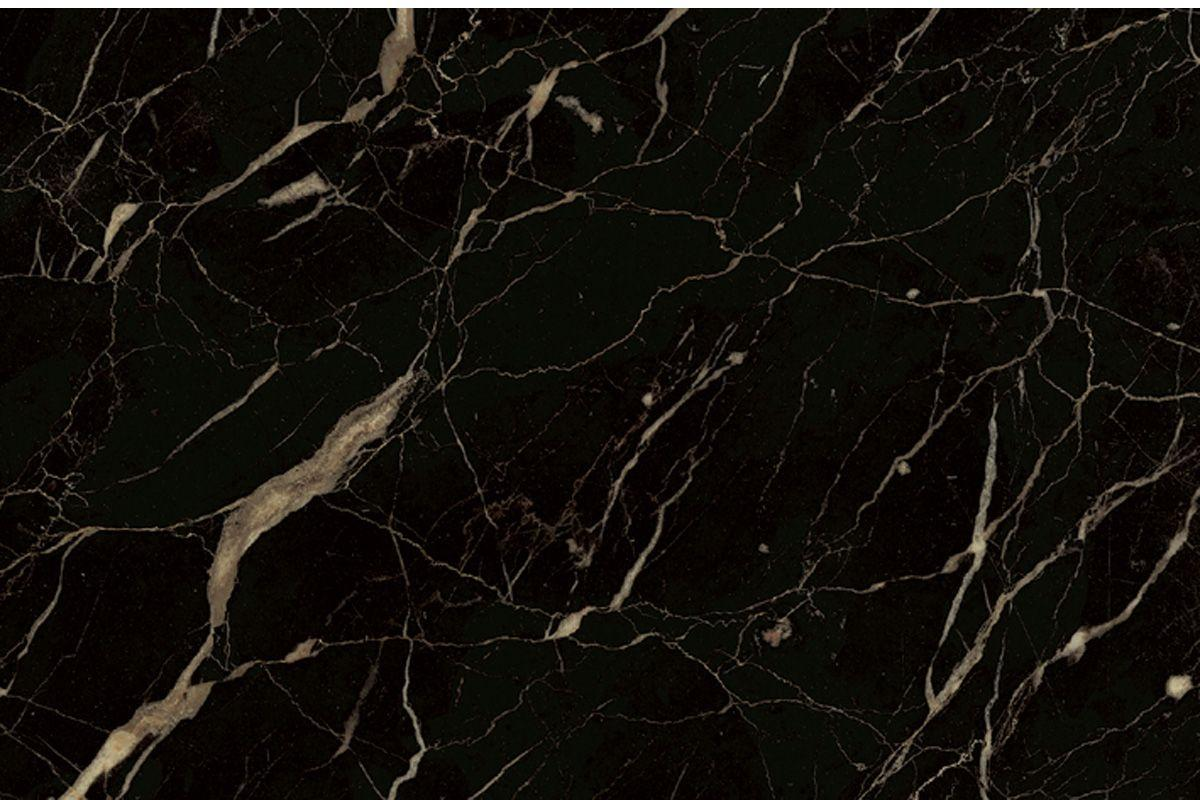
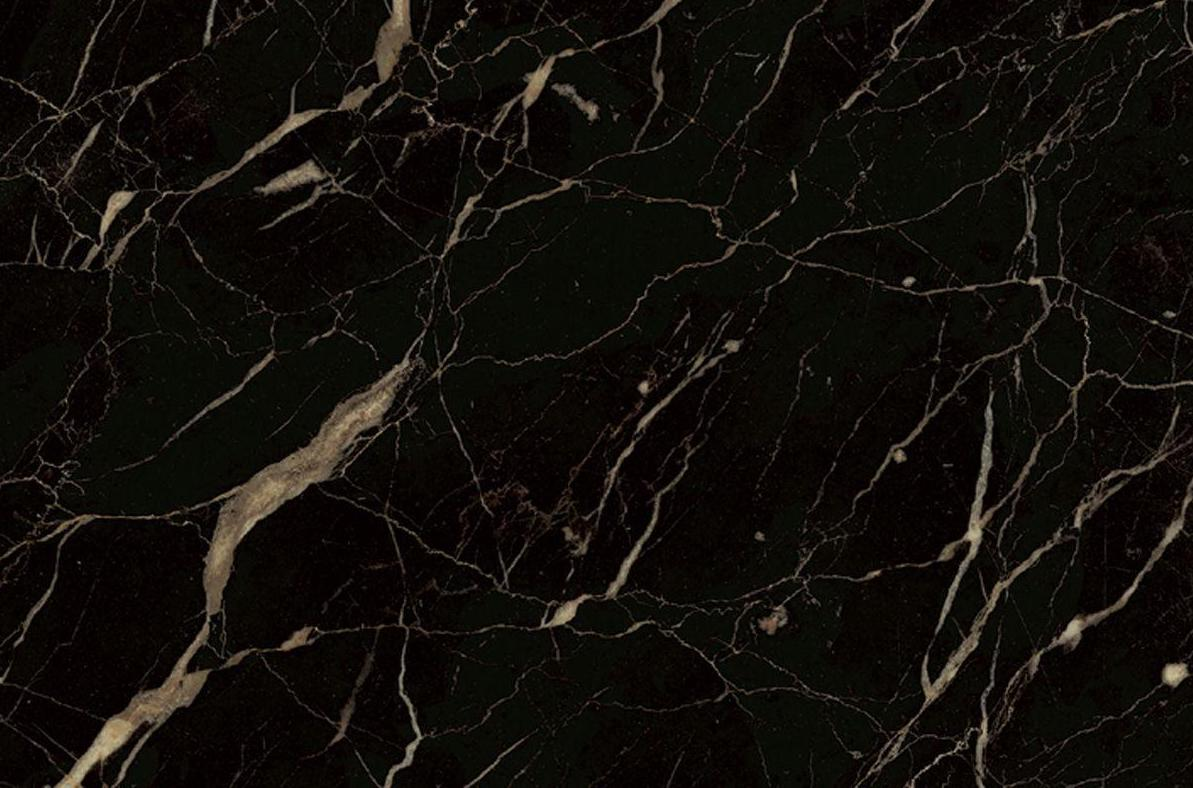
fixed issue with white line on bg image

diff --git a/src/index.css b/src/index.css
@@ -1,19 +1,19 @@
-/* body {
+body {
   margin: 0;
-  font-family: -apple-system, BlinkMacSystemFont, "Segoe UI", "Roboto", "Oxygen",
-    "Ubuntu", "Cantarell", "Fira Sans", "Droid Sans", "Helvetica Neue",
-    sans-serif;
-  -webkit-font-smoothing: antialiased;
-  -moz-osx-font-smoothing: grayscale;
+  background-color: #282c34;
 }
 
 code {
   font-family: source-code-pro, Menlo, Monaco, Consolas, "Courier New",
     monospace;
-} */
+}
 
 #aboutContainer {
-  margin: 10%;
+  align-items: center;
+  justify-content: space-around;
+  display: auto-flex;
+  padding: 10%;
+  margin-top: 0%;
 }
 
 #contactContainer {
@@ -24,6 +24,5 @@ code {
   padding-top: 5%;
 }
 #contactHeader {
-  margin: 10%;
   color: white;
 }

diff --git a/src/App.js b/src/App.js
@@ -11,12 +11,14 @@ function App() {
   return (
     <Router>
       <Navbar />
-      <>
-        <Route exact path="/" component={About} />
-        <Route exact path="/About" component={About} />
-        <Route exact path="/Contact" component={Contact} />
-        <Route exact path="/Portfolio" component={Portfolio} />
-      </>
+      <Wrapper>
+        <>
+          <Route exact path="/" component={About} />
+          <Route exact path="/About" component={About} />
+          <Route exact path="/Contact" component={Contact} />
+          <Route exact path="/Portfolio" component={Portfolio} />
+        </>
+      </Wrapper>
       <Footer />
     </Router>
   );

diff --git a/src/App.css b/src/App.css
@@ -1,5 +1,12 @@
-/* .App {
+.App {
   text-align: center;
+  background-image: url("../../imgs/bgalt2.jpg");
+  position: fixed;
+  min-width: 100%;
+  min-height: 100%;
+  background-size: cover;
+
+  background-repeat: repeat-y;
 }
 
 .App-logo {
@@ -11,10 +18,9 @@
   .App-logo {
     animation: App-logo-spin infinite 20s linear;
   }
-} */
+}
 
 .App-header {
-  background-color: #282c34;
   min-height: 100vh;
   display: flex;
   flex-direction: column;

diff --git a/src/components/Wrapper/index.js b/src/components/Wrapper/index.js
@@ -1,7 +1,10 @@
 import React from "react";
+//import { propTypes } from "react-bootstrap/esm/Image";
+import "./style.css";
+// import Hero from "../Hero";
 
-function Wrapper() {
-  return <main className="Wrapper"></main>;
+function Wrapper(props) {
+  return <div className="Wrapper">{props.children}</div>;
 }
 
 export default Wrapper;

diff --git a/src/pages/about.js b/src/pages/about.js
@@ -5,7 +5,7 @@ function About() {
   return (
     <Hero>
       <div>
-        <div class="container-m md-auto content" id="aboutContainer">
+        <div class="container-m  content" id="aboutContainer">
           <div class="row">
             <div class="col-md-8 cards card text-white bg-dark mb-3">
               <h1>About Me</h1>

diff --git a/src/components/Hero/style.css b/src/components/Hero/style.css
@@ -1,7 +1,10 @@
 .hero {
   background-image: url("../../imgs/bgalt2.jpg");
-  background-repeat: no-repeat;
-  background-attachment: fixed;
+  min-width: 100vh;
+  min-height: 100vh;
   background-size: cover;
+  background-repeat: repeat-y;
   opacity: 0.9;
+  margin: 0px;
+  padding: 0px;
 }

diff --git a/src/components/Navbar/index.js b/src/components/Navbar/index.js
@@ -1,5 +1,6 @@
 import React from "react";
 import { Link } from "react-router-dom";
+import "./style.css";
 //import "./style.css";
 
 // Depending on the current path, this component sets the "active" class on the appropriate navigation link item

diff --git a/src/pages/portfolio.js b/src/pages/portfolio.js
@@ -10,10 +10,6 @@ function Portfolio() {
   Projectdata.forEach((project) => {
     cards.push(Card(project));
   });
-  return (
-    <Hero>
-      <div>{cards}</div>
-    </Hero>
-  );
+  return <Hero>{cards}</Hero>;
 }
 export default Portfolio;

diff --git a/src/components/Card/style.css b/src/components/Card/style.css
@@ -1,6 +1,5 @@
 .btn {
-  margin: 5;
-  padding: 5;
+  margin: 1%;
 }
 .ptitle {
   text-decoration: underline;

diff --git a/src/components/Wrapper/style.css b/src/components/Wrapper/style.css
@@ -1,0 +1,3 @@
+.Wrapper {
+  background-color: #121212;
+}

diff --git a/src/components/Navbar/style.css b/src/components/Navbar/style.css
@@ -1,0 +1,3 @@
+.navbar {
+  padding-bottom: 0%;
+}
